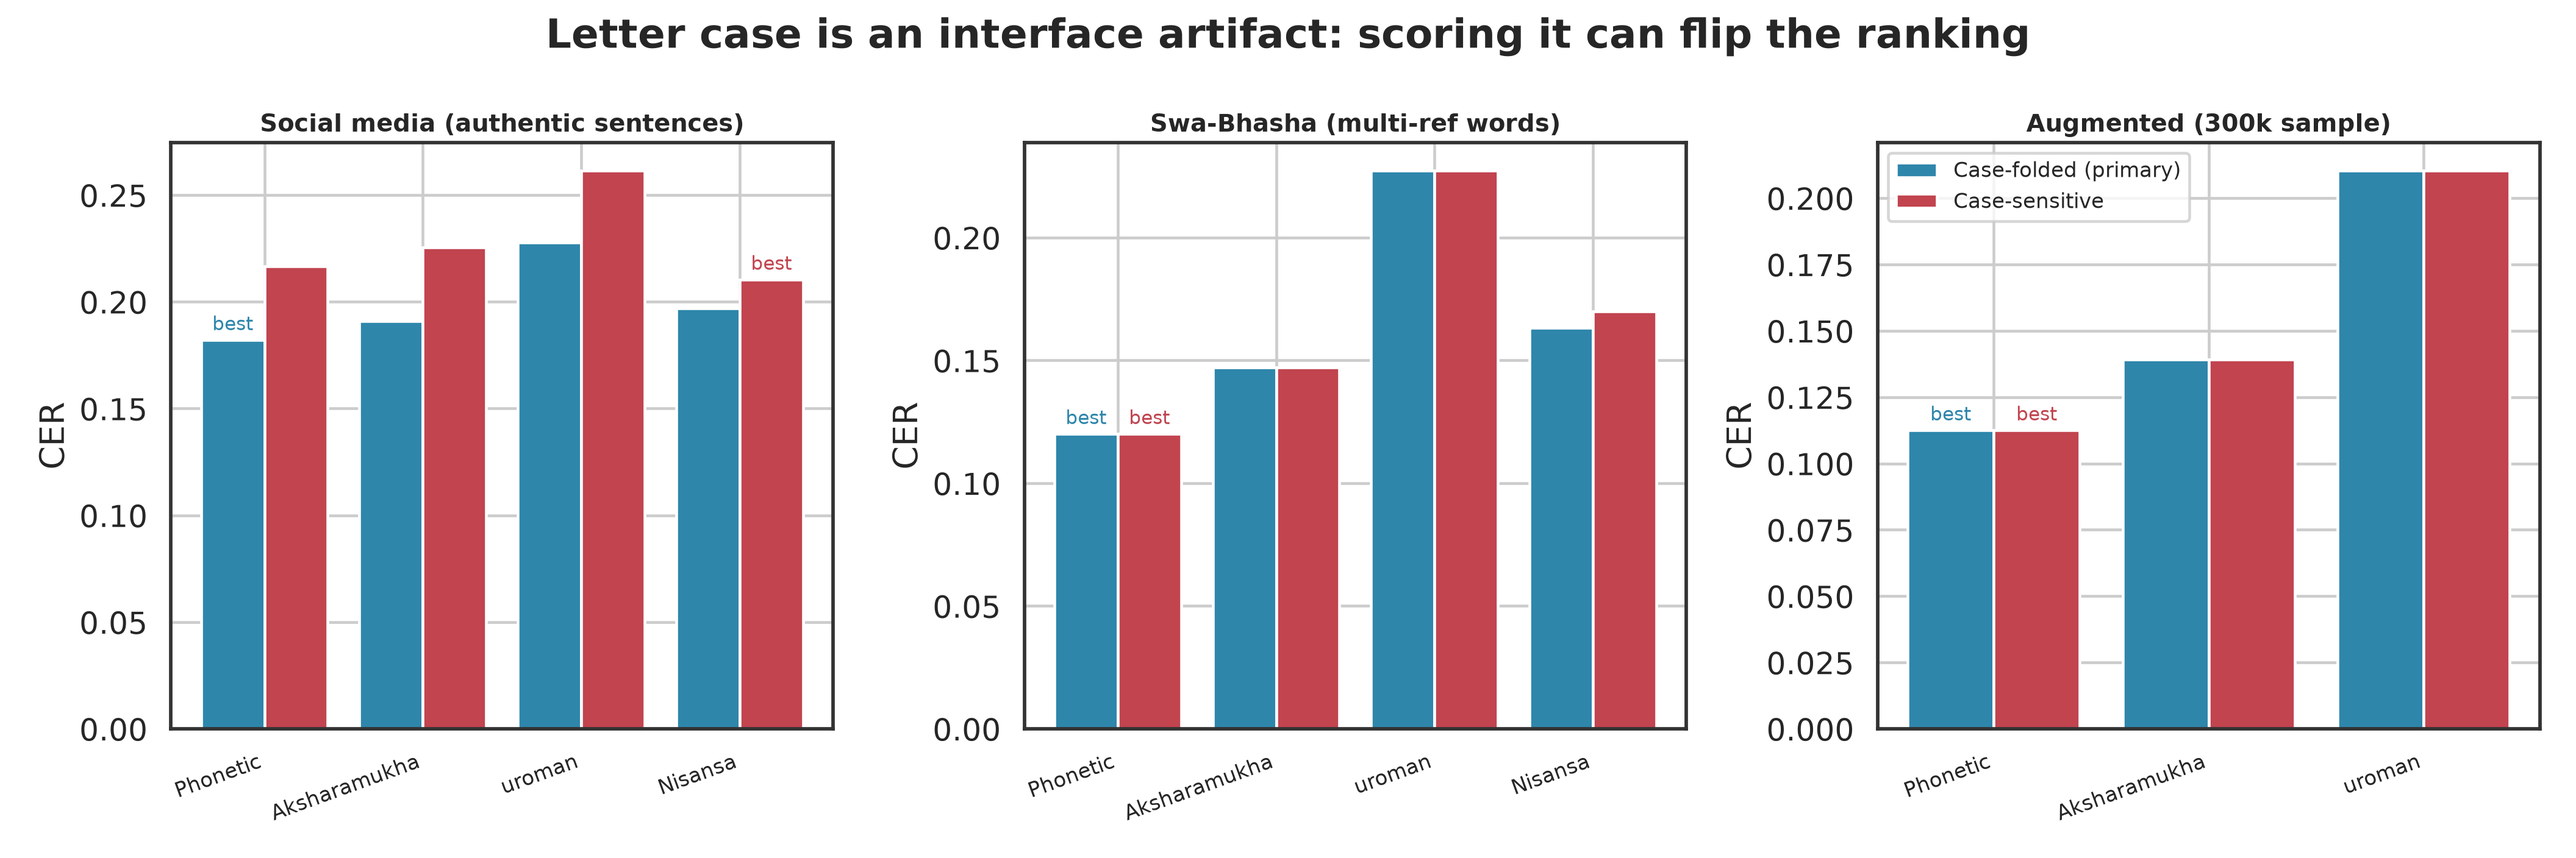
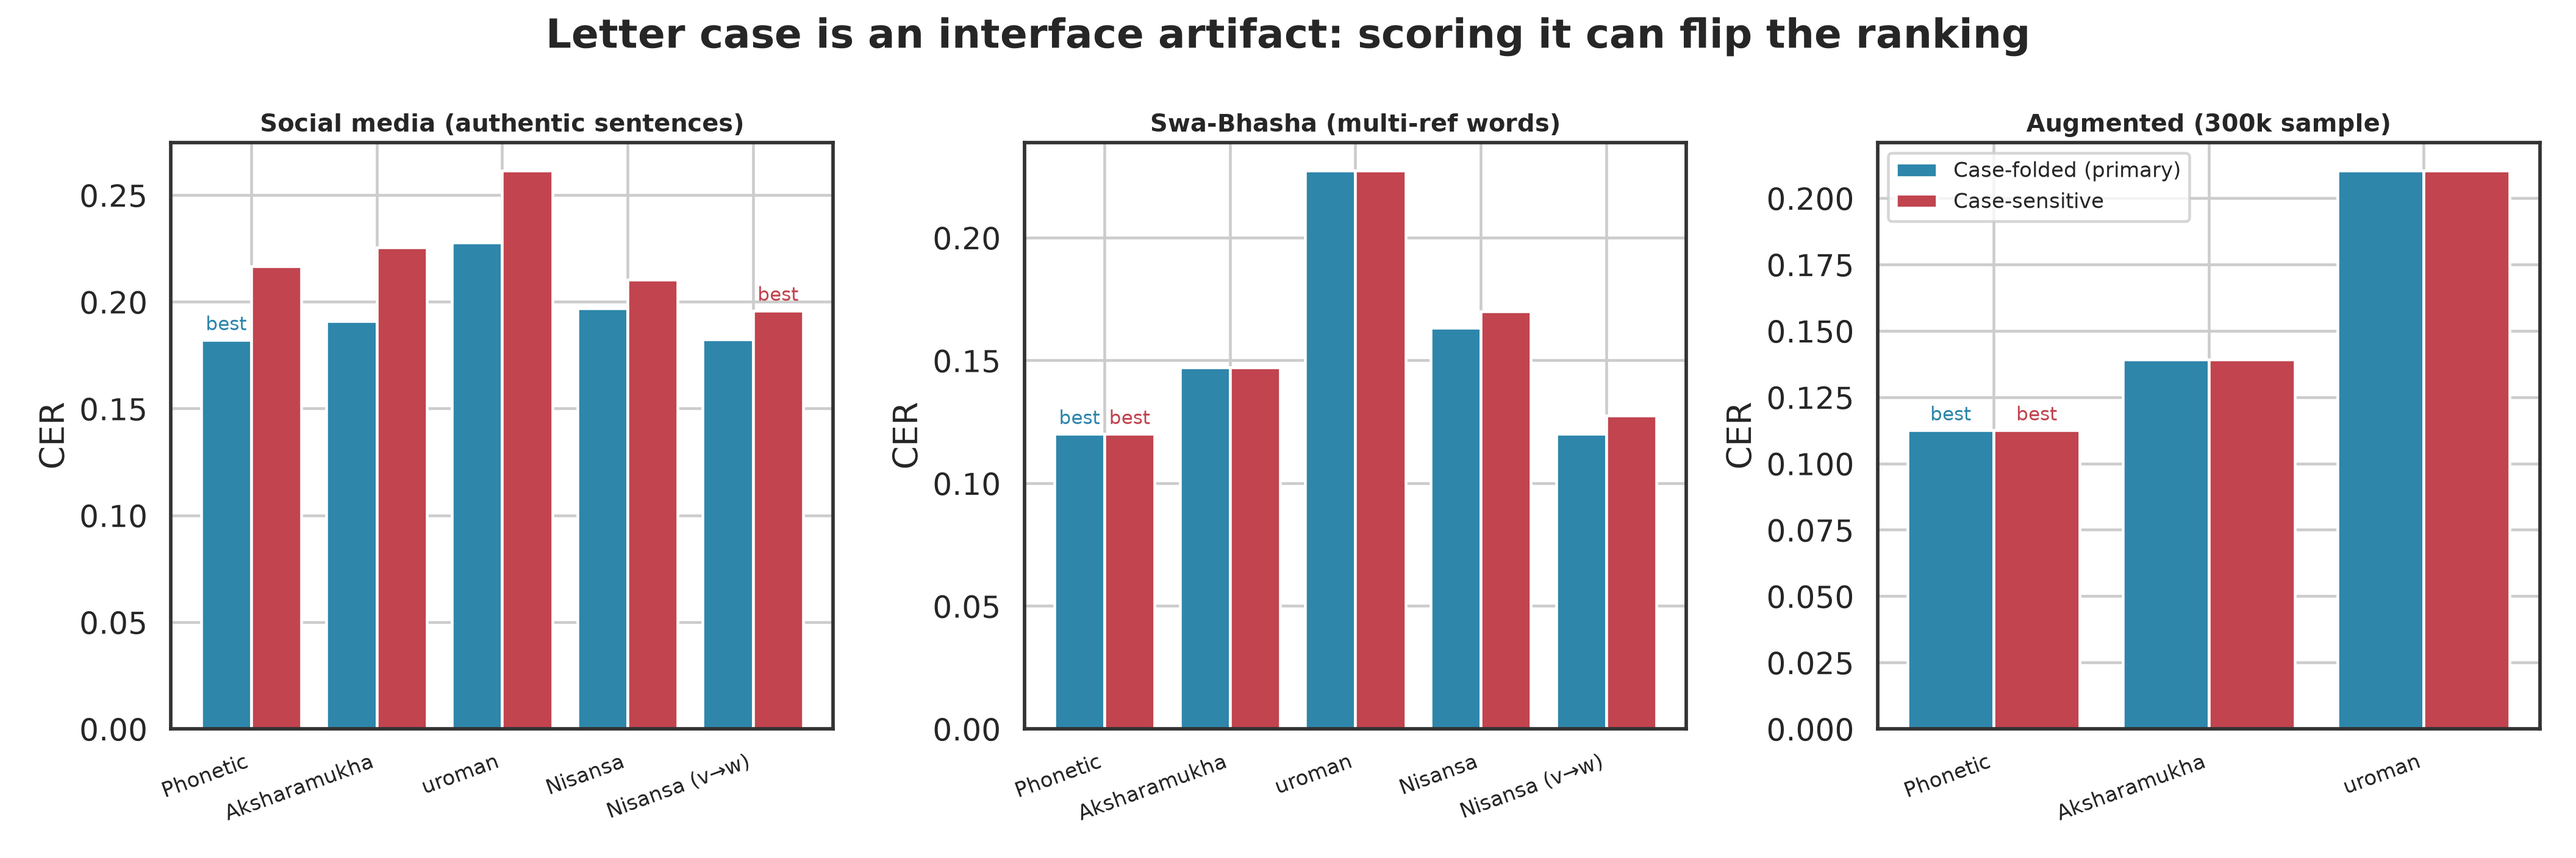
Add nisansa_w ablation: the v/w convention accounted for Nisansa's whole gap
Supervisor's question: if writing `v` instead of `w` is what costs Nisansa, fix
just that and rescore. Answered as a pure post-process of the cached results -
no refetching, and only the corrected variant is evaluated, as requested.

                        as published   with v->w   phonetic
  social media              0.197        0.182       0.182
  swa_bhasha_words          0.163        0.120       0.120

The gap closes completely. Bootstrap CIs now overlap phonetic's on both corpora,
so the two are a statistical tie; nisansa_w is even marginally ahead on
exact-match (33.4% vs 33.3% on words). This is consistent with the relaxed
metrics, which had already shown identical CERs to four decimal places once
spelling style was canonicalized.

The rewrite is unambiguous on this data: `w` appears in 159 of 449,117 Nisansa
outputs (0.03%), so a v->w mapping has nothing to collide with.

Consequences for the writeup:
- the recommendation no longer claims phonetic transliterates better. It rests
  on engineering properties: local, deterministic, no network, complete coverage,
  reproducible offline. Nisansa is not a worse romanizer - it writes `v` where
  Sinhala speakers type `w`.
- the report now detects statistical ties from the bootstrap CIs instead of
  declaring a winner on a 0.0001 CER difference, which 449k items can make
  "significant" while remaining meaningless.

nisansa_w is a modified method, not the published tool, and is labelled as such
throughout.

diff --git a/src/method_evaluation/generate_report.py b/src/method_evaluation/generate_report.py
@@ -12,6 +12,7 @@ METHOD_LABELS = {
     "aksharamukha": "Aksharamukha",
     "uroman": "uroman",
     "nisansa_sirs_method": "Nisansa web",
+    "nisansa_w": "Nisansa web + v→w",
 }
 CORPUS_LABELS = {
     "social_media": "Social media (authentic sentence pairs)",
@@ -58,12 +59,39 @@ def main():
                for c, rows in by_corpus.items()}
     overall = max(set(winners.values()), key=lambda m: list(winners.values()).count(m))
 
+    # A difference of 0.0001 CER is not a win, however many items back it. Treat
+    # methods whose bootstrap CIs overlap the leader's as statistically tied.
+    def ties_with_leader(corpus: str) -> list[str]:
+        entries = sig.get(corpus, {}).get("methods", {})
+        leader = sig.get(corpus, {}).get("best_method")
+        lead_ci = entries.get(leader, {}).get("cer_ci95")
+        if not lead_ci:
+            return []
+        out = []
+        for m, e in entries.items():
+            ci = e.get("cer_ci95")
+            if m != leader and ci and ci[0] <= lead_ci[1] and lead_ci[0] <= ci[1]:
+                out.append(m)
+        return out
+
+    tied_any = {c: ties_with_leader(c) for c in by_corpus}
+    contenders = sorted({m for v in tied_any.values() for m in v})
+
     lines.append(f"## Recommendation: {METHOD_LABELS.get(overall, overall)}\n")
-    lines.append(
-        f"**{METHOD_LABELS.get(overall, overall)} is the best method** on every corpus tested "
-        "and is the recommended choice for the downstream script-robustness pipeline. "
-        "It has the lowest CER and the highest chrF everywhere, and it is the only top-ranked "
-        "option that is local, deterministic, free, and reproducible offline.\n")
+    if contenders:
+        names = ", ".join(METHOD_LABELS.get(m, m) for m in contenders)
+        lines.append(
+            f"**{METHOD_LABELS.get(overall, overall)} is the recommended method**, but on accuracy it is "
+            f"a statistical tie with {names} - their confidence intervals overlap, so the ranking between "
+            f"them is not meaningful. The recommendation therefore rests on engineering properties rather "
+            f"than a quality difference: Phonetic runs locally and deterministically, needs no network, "
+            f"covers every word in the corpus, and can be rerun by anyone offline.\n")
+    else:
+        lines.append(
+            f"**{METHOD_LABELS.get(overall, overall)} is the best method** on every corpus tested "
+            "and is the recommended choice for the downstream script-robustness pipeline. "
+            "It has the lowest CER and the highest chrF everywhere, and it is the only top-ranked "
+            "option that is local, deterministic, free, and reproducible offline.\n")
 
     lines.append("| Corpus | Items | Winner by CER | Runner-up |")
     lines.append("|---|---|---|---|")
@@ -108,6 +136,33 @@ def main():
         "**Biggest remaining gap (all methods):** over-doubling of long vowels "
         "(~0.8/token on words vs humans' ~0.12). A trivial post-process collapsing `aa/ee/ii/oo/uu` "
         "would close roughly half the residual CER to human text (relaxed CER is ~1/3 of strict).\n")
+
+    if ("swa_bhasha_words", "nisansa_w") in grid:
+        lines.append("### The v/w convention accounted for Nisansa's entire gap\n")
+        lines.append(
+            "Nisansa's output matches the phonetic method on long vowels, aspiration and gemination, and "
+            "differs almost only in writing ව as `v` where humans overwhelmingly write `w`. Rewriting just "
+            "that one convention in its output (`nisansa_w`, a post-process of the cached results - not the "
+            "published tool) removes the difference entirely:\n")
+        lines.append("| Corpus | Nisansa as published | Nisansa with v→w | Phonetic |")
+        lines.append("|---|---|---|---|")
+        for corpus in by_corpus:
+            if (corpus, "nisansa_w") not in grid:
+                continue
+            lines.append(
+                f"| {CORPUS_LABELS.get(corpus, corpus)} | "
+                f"{_fmt(g(corpus, 'nisansa_sirs_method', 'cer_mean'))} | "
+                f"**{_fmt(g(corpus, 'nisansa_w', 'cer_mean'))}** | "
+                f"{_fmt(g(corpus, 'phonetic', 'cer_mean'))} |")
+        lines.append("")
+        lines.append(
+            "So the two methods are equivalent in romanization quality once that single orthographic "
+            "choice is normalized, which is consistent with the relaxed metrics: after canonicalizing "
+            "spelling style, their CERs were already identical to four decimal places. The honest "
+            "conclusion is that Nisansa is not a *worse* romanizer - it simply writes `v`, and Sinhala "
+            "speakers type `w`. Phonetic remains the recommendation because it matches human convention "
+            "out of the box and is local, complete and reproducible, not because it transliterates "
+            "better.\n")
 
     # --- capitalization artifact -----------------------------------------
     cased = [(m["corpus"], m["method"], m["cer_mean"], m.get("cer_mean_cased"))

diff --git a/src/method_evaluation/derive_nisansa_w.py b/src/method_evaluation/derive_nisansa_w.py
@@ -1,0 +1,62 @@
+"""Derive a `nisansa_w` variant: Nisansa's output with every v rewritten as w.
+
+The convention analysis showed Nisansa matches the phonetic method on long
+vowels, aspiration and gemination, and differs almost only in writing ව as `v`
+where humans overwhelmingly write `w` (human v-share is 0.01 on the word corpus
+and 0.20 on social media, against Nisansa's 1.00). This isolates that one
+variable: if the v/w convention were the whole story, `nisansa_w` should close
+the gap to phonetic.
+
+The rewrite is unambiguous on this data: `w` occurs in 159 of 449,117 Nisansa
+outputs (0.03%), so there is nothing for a v->w mapping to collide with.
+
+This is a *modified* method, not the Nisansa tool as published, and is reported
+as such. No network access is needed - it is a pure post-process of the cached
+results.
+
+    python derive_nisansa_w.py --corpora social_media swa_bhasha_words
+"""
+
+from __future__ import annotations
+
+import argparse
+import json
+from pathlib import Path
+
+PROJECT_ROOT = Path(__file__).resolve().parents[2]
+TRANSLIT_DIR = PROJECT_ROOT / "data" / "reference" / "transliterated"
+
+SOURCE = "nisansa_sirs_method"
+DERIVED = "nisansa_w"
+
+
+def to_w(text: str) -> str:
+    """Rewrite the v/w convention, preserving case."""
+    return text.replace("v", "w").replace("V", "W")
+
+
+def derive(corpus: str) -> None:
+    src = TRANSLIT_DIR / corpus / f"{SOURCE}.jsonl"
+    if not src.exists():
+        print(f"{corpus}: no {SOURCE} output, skipping")
+        return
+    dst = TRANSLIT_DIR / corpus / f"{DERIVED}.jsonl"
+    n = changed = 0
+    with src.open(encoding="utf-8") as fin, dst.open("w", encoding="utf-8", newline="\n") as fout:
+        for line in fin:
+            rec = json.loads(line)
+            new = to_w(rec["hypothesis"])
+            changed += new != rec["hypothesis"]
+            n += 1
+            fout.write(json.dumps({"id": rec["id"], "sinhala": rec["sinhala"],
+                                   "hypothesis": new}, ensure_ascii=False) + "\n")
+    print(f"{corpus}: wrote {n:,} items ({changed:,} rewritten) -> {dst.name}")
+
+
+if __name__ == "__main__":
+    ap = argparse.ArgumentParser(description=__doc__,
+                                 formatter_class=argparse.RawDescriptionHelpFormatter)
+    ap.add_argument("--corpora", nargs="+", default=["social_media", "swa_bhasha_words"])
+    args = ap.parse_args()
+    for c in args.corpora:
+        derive(c)

diff --git a/src/method_evaluation/plots.py b/src/method_evaluation/plots.py
@@ -20,6 +20,7 @@ METHOD_LABELS = {
     "aksharamukha": "Aksharamukha",
     "uroman": "uroman",
     "nisansa_sirs_method": "Nisansa",
+    "nisansa_w": "Nisansa (v→w)",
 }
 CORPUS_LABELS = {
     "social_media": "Social media\n(authentic sentences)",
@@ -33,6 +34,7 @@ PALETTE = {
     "aksharamukha": "#E4572E",
     "uroman": "#8B5FBF",
     "nisansa_sirs_method": "#17A398",
+    "nisansa_w": "#0E6E66",       # same family as Nisansa: it is a variant of it
 }
 
 sns.set_theme(style="whitegrid", context="talk")

diff --git a/src/method_evaluation/error_analysis.py b/src/method_evaluation/error_analysis.py
@@ -23,7 +23,7 @@ PARALLEL_DIR = PROJECT_ROOT / "data" / "reference" / "parallel"
 TRANSLIT_DIR = PROJECT_ROOT / "data" / "reference" / "transliterated"
 RESULTS_DIR = PROJECT_ROOT / "results" / "method_evaluation"
 
-METHODS = ["phonetic", "aksharamukha", "uroman", "nisansa_sirs_method"]
+METHODS = ["phonetic", "aksharamukha", "uroman", "nisansa_sirs_method", "nisansa_w"]
 _ASP = re.compile(r"th|dh|kh|gh|ph|bh|ch|sh")
 _LONG = re.compile(r"aa|ee|ii|oo|uu")
 _GEM = re.compile(r"([b-df-hj-np-tv-z])\1")

diff --git a/src/method_evaluation/run_evaluation.py b/src/method_evaluation/run_evaluation.py
@@ -20,7 +20,7 @@ PARALLEL_DIR = PROJECT_ROOT / "data" / "reference" / "parallel"
 TRANSLIT_DIR = PROJECT_ROOT / "data" / "reference" / "transliterated"
 RESULTS_DIR = PROJECT_ROOT / "results" / "method_evaluation"
 
-ALL_METHODS = ["phonetic", "aksharamukha", "uroman", "nisansa_sirs_method"]
+ALL_METHODS = ["phonetic", "aksharamukha", "uroman", "nisansa_sirs_method", "nisansa_w"]
 
 
 def _load_corpus(corpus: str) -> tuple[dict[str, list[str]], str]:

diff --git a/docs/method_evaluation/README.md b/docs/method_evaluation/README.md
@@ -4,12 +4,12 @@ Which of the four Sinhala->Romanized ("Singlish") methods best reproduces how pe
 
 ## Recommendation: Phonetic (in-house)
 
-**Phonetic (in-house) is the best method** on every corpus tested and is the recommended choice for the downstream script-robustness pipeline. It has the lowest CER and the highest chrF everywhere, and it is the only top-ranked option that is local, deterministic, free, and reproducible offline.
+**Phonetic (in-house) is the recommended method**, but on accuracy it is a statistical tie with Nisansa web + v→w - their confidence intervals overlap, so the ranking between them is not meaningful. The recommendation therefore rests on engineering properties rather than a quality difference: Phonetic runs locally and deterministically, needs no network, covers every word in the corpus, and can be rerun by anyone offline.
 
 | Corpus | Items | Winner by CER | Runner-up |
 |---|---|---|---|
-| Social media (authentic sentence pairs) | 4,397 | Phonetic (in-house) (0.182) | Aksharamukha (0.191) |
-| Swa-Bhasha (multi-reference words) | 449,117 | Phonetic (in-house) (0.120) | Aksharamukha (0.147) |
+| Social media (authentic sentence pairs) | 4,397 | Phonetic (in-house) (0.182) | Nisansa web + v→w (0.182) |
+| Swa-Bhasha (multi-reference words) | 449,117 | Phonetic (in-house) (0.120) | Nisansa web + v→w (0.120) |
 | Augmented sentences (300k sample, cross-check) | 300,000 | Phonetic (in-house) (0.112) | Aksharamukha (0.139) |
 
 Supporting points:
@@ -21,6 +21,17 @@ Supporting points:
 
 **Biggest remaining gap (all methods):** over-doubling of long vowels (~0.8/token on words vs humans' ~0.12). A trivial post-process collapsing `aa/ee/ii/oo/uu` would close roughly half the residual CER to human text (relaxed CER is ~1/3 of strict).
 
+### The v/w convention accounted for Nisansa's entire gap
+
+Nisansa's output matches the phonetic method on long vowels, aspiration and gemination, and differs almost only in writing ව as `v` where humans overwhelmingly write `w`. Rewriting just that one convention in its output (`nisansa_w`, a post-process of the cached results - not the published tool) removes the difference entirely:
+
+| Corpus | Nisansa as published | Nisansa with v→w | Phonetic |
+|---|---|---|---|
+| Social media (authentic sentence pairs) | 0.197 | **0.182** | 0.182 |
+| Swa-Bhasha (multi-reference words) | 0.163 | **0.120** | 0.120 |
+
+So the two methods are equivalent in romanization quality once that single orthographic choice is normalized, which is consistent with the relaxed metrics: after canonicalizing spelling style, their CERs were already identical to four decimal places. The honest conclusion is that Nisansa is not a *worse* romanizer - it simply writes `v`, and Sinhala speakers type `w`. Phonetic remains the recommendation because it matches human convention out of the box and is local, complete and reproducible, not because it transliterates better.
+
 ### Note: letter case is a UI artifact, not a romanization choice
 
 The Nisansa web form capitalizes the first letter of whatever text it is given (93% of its outputs), the three local methods never capitalize, and 84% of the human social-media references happen to start with a capital. Scoring case-sensitively therefore rewards one method for an interface side-effect - and that alone is enough to flip the social-media ranking. The primary metrics fold case; the case-sensitive column below shows the size of the artifact.
@@ -31,10 +42,12 @@ The Nisansa web form capitalizes the first letter of whatever text it is given (
 | Social media (authentic sentence pairs) | Aksharamukha | 0.191 | 0.225 |
 | Social media (authentic sentence pairs) | uroman | 0.228 | 0.261 |
 | Social media (authentic sentence pairs) | Nisansa web | 0.197 | 0.210 |
+| Social media (authentic sentence pairs) | Nisansa web + v→w | 0.182 | 0.196 |
 | Swa-Bhasha (multi-reference words) | Phonetic (in-house) | 0.120 | 0.120 |
 | Swa-Bhasha (multi-reference words) | Aksharamukha | 0.147 | 0.147 |
 | Swa-Bhasha (multi-reference words) | uroman | 0.227 | 0.227 |
 | Swa-Bhasha (multi-reference words) | Nisansa web | 0.163 | 0.170 |
+| Swa-Bhasha (multi-reference words) | Nisansa web + v→w | 0.120 | 0.128 |
 | Augmented sentences (300k sample, cross-check) | Phonetic (in-house) | 0.112 | 0.112 |
 | Augmented sentences (300k sample, cross-check) | Aksharamukha | 0.139 | 0.139 |
 | Augmented sentences (300k sample, cross-check) | uroman | 0.210 | 0.210 |
@@ -70,6 +83,7 @@ Items: 4,397. Best method by strict CER listed first.
 | Method | CER | WER | chrF | chrF++ | BLEU | Exact % | Relaxed CER | Relaxed Exact % |
 |---|---|---|---|---|---|---|---|---|
 | Phonetic (in-house) | 0.182 | 0.606 | 67.8 | 59.3 | 28.6 | 4.2 | 0.108 | 11.8 |
+| Nisansa web + v→w | 0.182 | 0.606 | 67.8 | 59.3 | 28.6 | 4.2 | 0.108 | 11.9 |
 | Aksharamukha | 0.191 | 0.640 | 63.7 | 55.4 | 26.3 | 3.5 | 0.108 | 11.8 |
 | Nisansa web | 0.197 | 0.647 | 63.4 | 54.9 | 25.4 | 3.2 | 0.108 | 11.9 |
 | uroman | 0.228 | 0.746 | 55.7 | 47.1 | 20.7 | 1.6 | 0.108 | 11.9 |
@@ -82,6 +96,7 @@ Items: 4,397. Best method by strict CER listed first.
 | Aksharamukha | [0.187, 0.195] | 2.24e-130 |
 | uroman | [0.224, 0.232] | 0.00e+00 |
 | Nisansa web | [0.193, 0.201] | 1.47e-180 |
+| Nisansa web + v→w | [0.178, 0.186] | 1.59e-03 |
 
 ## Swa-Bhasha (multi-reference words)
 
@@ -90,6 +105,7 @@ Items: 449,117. Best method by strict CER listed first.
 | Method | CER | WER | chrF | chrF++ | BLEU | Exact % | Relaxed CER | Relaxed Exact % |
 |---|---|---|---|---|---|---|---|---|
 | Phonetic (in-house) | 0.120 | 0.667 | 78.8 | 64.6 | 10.6 | 33.3 | 0.039 | 74.3 |
+| Nisansa web + v→w | 0.120 | 0.666 | 78.7 | 64.4 | 10.4 | 33.4 | 0.039 | 74.1 |
 | Aksharamukha | 0.147 | 0.760 | 69.7 | 56.2 | 0.8 | 24.0 | 0.040 | 73.8 |
 | Nisansa web | 0.163 | 0.776 | 67.9 | 54.3 | 7.9 | 22.4 | 0.039 | 74.1 |
 | uroman | 0.227 | 0.903 | 51.7 | 40.5 | 6.1 | 9.7 | 0.044 | 71.8 |
@@ -102,6 +118,7 @@ Items: 449,117. Best method by strict CER listed first.
 | Aksharamukha | [0.147, 0.148] | 0.00e+00 |
 | uroman | [0.227, 0.228] | 0.00e+00 |
 | Nisansa web | [0.163, 0.164] | 0.00e+00 |
+| Nisansa web + v→w | [0.120, 0.120] | 1.08e-05 |
 
 ## Augmented sentences (300k sample, cross-check)
 
@@ -134,6 +151,7 @@ How each method's output compares to human typing on the four axes that dominate
 | Aksharamukha | 0.00 | 0.38 | 0.03 | 0.17 |
 | uroman | 1.00 | 0.30 | 0.00 | 0.36 |
 | Nisansa web | 1.00 | 0.38 | 0.17 | 0.16 |
+| Nisansa web + v→w | 0.00 | 0.38 | 0.17 | 0.16 |
 
 ### Swa-Bhasha (multi-reference words)
 
@@ -144,6 +162,7 @@ How each method's output compares to human typing on the four axes that dominate
 | Aksharamukha | 0.00 | 0.81 | 0.23 | 0.14 |
 | uroman | 1.00 | 0.80 | 0.00 | 0.37 |
 | Nisansa web | 1.00 | 0.81 | 0.56 | 0.11 |
+| Nisansa web + v→w | 0.00 | 0.81 | 0.56 | 0.11 |
 
 ### Augmented sentences (300k sample, cross-check)
 
